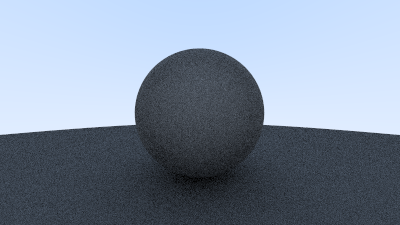
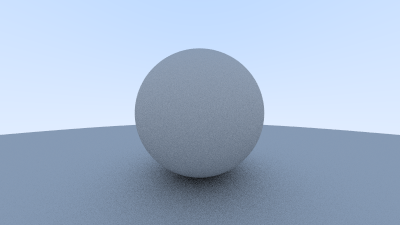
Fix bug where reflected rays hit the object they bounce off of near t=0

diff --git a/src/Main.cpp b/src/Main.cpp
@@ -23,7 +23,7 @@ Vec3 colorFromRay(const Ray &r, const Hittable &world, int depth) {
     return black;
   }
 
-  HitRecord record = world.raycast(r, 0, Math::infinity);
+  HitRecord record = world.raycast(r, 0.001, Math::infinity);
   if (record.hitAnything) {
     Vec3 target = record.hitPoint + record.faceNormal + Vec3::randomInsideUnitSphere();
     return 0.5 * colorFromRay(Ray{record.hitPoint, target - record.hitPoint}, world, depth-1);
